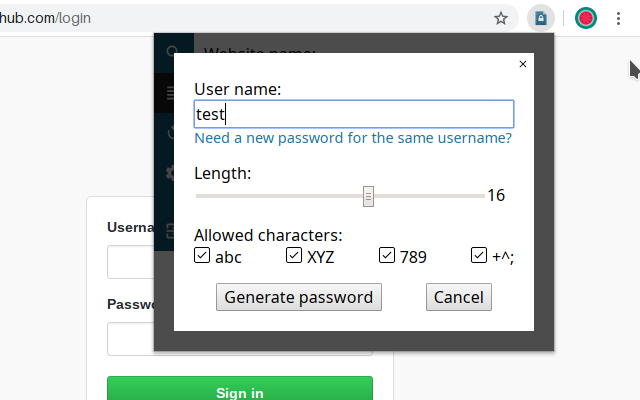
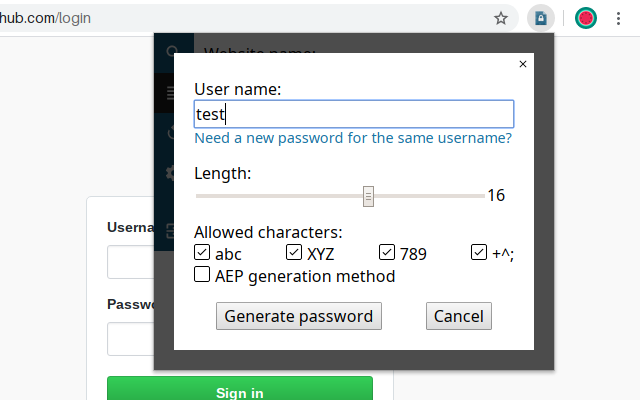
Add optional AEP generation method for enhanced site compatibility

Changed region(s): [[0.2188, 0.57, 0.875, 0.96], [0.7188, 0.6, 0.8125, 0.66], [0.9688, 0.15, 1.0, 0.21]]

diff --git a/lib/crypto.js b/lib/crypto.js
@@ -214,7 +214,8 @@ export function derivePasswordUniversal(params)
 {
   let types = {
     generated: {hasher: deriveBitsLegacy, stringifier: toPassword},
-    generated2: {hasher: deriveBits, stringifier: toPassword}
+    generated2: {hasher: deriveBits, stringifier: toPassword},
+    generatedAep: {hasher: deriveBits, stringifier: toPasswordAep}
   };
 
   let impl = types[params.type];
@@ -247,6 +248,22 @@ function toPassword(array, lower, upper, number, symbol)
     charsettings.push({charset: "23456789", min: 1, max: 1024});
   if (symbol)
     charsettings.push({charset: "!#$%&()*+,-./:;<=>?@[]^_{|}~", min: 1, max: 1024});
+
+  return toPasswordUniversal(array, charsettings);
+}
+
+function toPasswordAep(array, lower, upper, number, symbol)
+{
+  let charsettings = [];
+
+  if (lower)
+    charsettings.push({charset: "abcdefghijklmnopqrstuvwxyz", min: 2, max: 1024});
+  if (upper)
+    charsettings.push({charset: "ABCDEFGHIJKLMNOPQRSTUVWXYZ", min: 2, max: 1024});
+  if (number)
+    charsettings.push({charset: "0123456789", min: 2, max: 1024});
+  if (symbol)
+    charsettings.push({charset: "!#$%&*+-?@", min: 2, max: 1024});
 
   return toPasswordUniversal(array, charsettings);
 }

diff --git a/ui/panel/components/GeneratedPassword.vue b/ui/panel/components/GeneratedPassword.vue
@@ -33,6 +33,9 @@
         <label><input v-model="number" type="checkbox">789</label>
         <label><input v-model="symbol" type="checkbox">+^;</label>
       </div>
+      <div class="charsets-container">
+        <label :title="$t('type_aep_title')"><input v-model="type_aep" type="checkbox">{{ $t("type_aep_label") }}</label>
+      </div>
 
       <!-- Charset checkboxes are aggregated into a single hidden input to simplify validation -->
       <validated-input v-model="charsets" :error.sync="charsetsError" :visible="false" @validate="validateCharsets" />
@@ -98,6 +101,7 @@ export default {
       upper: getProp("upper", true),
       number: getProp("number", true),
       symbol: getProp("symbol", true),
+      type_aep: getProp("type_aep", false),
       charsets: "",
       charsetsError: null,
       keepNotes: !!this.password
@@ -148,6 +152,7 @@ export default {
         upper: this.upper,
         number: this.number,
         symbol: this.symbol,
+        type_aep: this.type_aep,
         notes: this.keepNotes ? this.password.notes : null
       }, this.options.replacing).then(pwdList =>
       {

diff --git a/ui/allpasswords/components/PasswordInfo.vue b/ui/allpasswords/components/PasswordInfo.vue
@@ -25,8 +25,8 @@
       <iconic-link class="password-remove-link" :title="$t('/(panel)(components)(PasswordMenu)remove_password')" @click="removePassword" />
     </div>
     <div class="password-info">
-      <template v-if="password.type == 'generated2'">
-        <div class="password-type">{{ $t("/(panel)(components)(PasswordEntry)password_type_generated2") }}</div>
+      <template v-if="password.type.indexOf('generated') == 0">
+        <div class="password-type">{{ $t("/(panel)(components)(PasswordEntry)password_type_" + password.type) }}</div>
         <div>{{ $t("/(panel)(components)(PasswordEntry)password_length") }} {{ password.length }}</div>
         <div>{{ $t("/(panel)(components)(PasswordEntry)allowed_characters") }}  {{ allowedChars }}</div>
       </template>

diff --git a/lib/passwords.js b/lib/passwords.js
@@ -346,7 +346,7 @@ export function setSite(entry)
   });
 }
 
-export function addGenerated({site, name, revision, length, lower, upper, number, symbol, notes}, replaceExisting)
+export function addGenerated({site, name, revision, length, lower, upper, number, symbol, notes, type_aep}, replaceExisting)
 {
   return lock.acquire().then(() => _ensureSiteData(site)).then(() =>
   {
@@ -362,7 +362,7 @@ export function addGenerated({site, name, revision, length, lower, upper, number
     if (exists)
       throw "alreadyExists";
 
-    let type = "generated2";
+    let type = type_aep ? "generatedAep" : "generated2";
     let data = {
       site, name, revision, type, length, lower, upper, number, symbol
     };

diff --git a/ui/panel/components/PasswordEntry.vue b/ui/panel/components/PasswordEntry.vue
@@ -74,9 +74,9 @@ export default {
     {
       let tooltip = "";
       let password = this.password;
-      if (password.type == "generated2")
+      if (password.type.indexOf("generated") == 0)
       {
-        tooltip = this.$t("password_type_generated2");
+        tooltip = this.$t("password_type_" + password.type);
 
         tooltip += "\n" + this.$t("password_length");
         tooltip += " " + password.length;

diff --git a/README.md b/README.md
@@ -14,6 +14,7 @@ Differences to the original version:
 * Show the passwords concealed to use drag and drop
 * Smaller theme with accent color
 * Sync works, but disabled due to missing API keys
+* Add new AEP password generation method to ensure 2 characters of every charset and symbol compatibility (with sites like ebay.com)
 
 Using multiple master passwords
 -------------------------------
